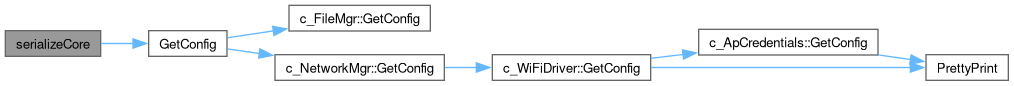
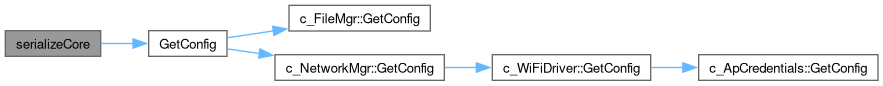
deploy: 2a3973c8abccfdb164db56483c07057c00bd3775

diff --git a/doxy/_ap_credentials_8hpp_source.html b/doxy/_ap_credentials_8hpp_source.html
@@ -156,13 +156,13 @@ $(function(){initNavTree('_ap_credentials_8hpp_source.html',''); initResizable(t
 <div class="ttc" id="aclassc___ap_credentials_html"><div class="ttname"><a href="classc___ap_credentials.html">c_ApCredentials</a></div><div class="ttdef"><b>Definition</b> ApCredentials.hpp:24</div></div>
 <div class="ttc" id="aclassc___ap_credentials_html_a00512543d08cafac4234370bd7bb0f0f"><div class="ttname"><a href="classc___ap_credentials.html#a00512543d08cafac4234370bd7bb0f0f">c_ApCredentials::GetConfig</a></div><div class="ttdeci">void GetConfig(JsonObject &amp;json)</div><div class="ttdef"><b>Definition</b> ApCredentials.cpp:45</div></div>
 <div class="ttc" id="aclassc___ap_credentials_html_a15b2ebf9089b39075b9a33fd64d3fb31"><div class="ttname"><a href="classc___ap_credentials.html#a15b2ebf9089b39075b9a33fd64d3fb31">c_ApCredentials::GetDriverName</a></div><div class="ttdeci">void GetDriverName(String &amp;Name)</div><div class="ttdef"><b>Definition</b> ApCredentials.hpp:40</div></div>
-<div class="ttc" id="aclassc___ap_credentials_html_a2914f4614baf70b26afb48eb4472d444"><div class="ttname"><a href="classc___ap_credentials.html#a2914f4614baf70b26afb48eb4472d444">c_ApCredentials::GetCurrentCredentials</a></div><div class="ttdeci">bool GetCurrentCredentials(ApCredentials &amp;OutValue)</div><div class="ttdef"><b>Definition</b> ApCredentials.cpp:124</div></div>
-<div class="ttc" id="aclassc___ap_credentials_html_a2d6f2ae523dc786fd43e3ed1bad90190"><div class="ttname"><a href="classc___ap_credentials.html#a2d6f2ae523dc786fd43e3ed1bad90190">c_ApCredentials::GetNextCredentials</a></div><div class="ttdeci">bool GetNextCredentials()</div><div class="ttdef"><b>Definition</b> ApCredentials.cpp:148</div></div>
+<div class="ttc" id="aclassc___ap_credentials_html_a2914f4614baf70b26afb48eb4472d444"><div class="ttname"><a href="classc___ap_credentials.html#a2914f4614baf70b26afb48eb4472d444">c_ApCredentials::GetCurrentCredentials</a></div><div class="ttdeci">bool GetCurrentCredentials(ApCredentials &amp;OutValue)</div><div class="ttdef"><b>Definition</b> ApCredentials.cpp:125</div></div>
+<div class="ttc" id="aclassc___ap_credentials_html_a2d6f2ae523dc786fd43e3ed1bad90190"><div class="ttname"><a href="classc___ap_credentials.html#a2d6f2ae523dc786fd43e3ed1bad90190">c_ApCredentials::GetNextCredentials</a></div><div class="ttdeci">bool GetNextCredentials()</div><div class="ttdef"><b>Definition</b> ApCredentials.cpp:149</div></div>
 <div class="ttc" id="aclassc___ap_credentials_html_a62ee6760f021b7a0d1a9940cade3c890"><div class="ttname"><a href="classc___ap_credentials.html#a62ee6760f021b7a0d1a9940cade3c890">c_ApCredentials::ApCredentialsIterator</a></div><div class="ttdeci">uint ApCredentialsIterator</div><div class="ttdef"><b>Definition</b> ApCredentials.hpp:45</div></div>
 <div class="ttc" id="aclassc___ap_credentials_html_a82c44b0bac878f994faaf0acbec7e6c2"><div class="ttname"><a href="classc___ap_credentials.html#a82c44b0bac878f994faaf0acbec7e6c2">c_ApCredentials::_ApCredentials</a></div><div class="ttdeci">ApCredentials _ApCredentials[MAX_NUM_CREDENTIALS]</div><div class="ttdef"><b>Definition</b> ApCredentials.hpp:44</div></div>
-<div class="ttc" id="aclassc___ap_credentials_html_a8ce43e55561489e4c8798c0e70376c0d"><div class="ttname"><a href="classc___ap_credentials.html#a8ce43e55561489e4c8798c0e70376c0d">c_ApCredentials::ResetCurrentCredentials</a></div><div class="ttdeci">void ResetCurrentCredentials()</div><div class="ttdef"><b>Definition</b> ApCredentials.cpp:160</div></div>
+<div class="ttc" id="aclassc___ap_credentials_html_a8ce43e55561489e4c8798c0e70376c0d"><div class="ttname"><a href="classc___ap_credentials.html#a8ce43e55561489e4c8798c0e70376c0d">c_ApCredentials::ResetCurrentCredentials</a></div><div class="ttdeci">void ResetCurrentCredentials()</div><div class="ttdef"><b>Definition</b> ApCredentials.cpp:161</div></div>
 <div class="ttc" id="aclassc___ap_credentials_html_aa325ce89dad21f90a4ff81c6c8c1ee07"><div class="ttname"><a href="classc___ap_credentials.html#aa325ce89dad21f90a4ff81c6c8c1ee07">c_ApCredentials::~c_ApCredentials</a></div><div class="ttdeci">virtual ~c_ApCredentials()</div><div class="ttdoc">&lt; deallocate any resources and put the output channels into a safe state</div><div class="ttdef"><b>Definition</b> ApCredentials.cpp:36</div></div>
-<div class="ttc" id="aclassc___ap_credentials_html_ae6b44fd090841dd48ae0527f1a1e8a76"><div class="ttname"><a href="classc___ap_credentials.html#ae6b44fd090841dd48ae0527f1a1e8a76">c_ApCredentials::SetConfig</a></div><div class="ttdeci">bool SetConfig(JsonObject &amp;json)</div><div class="ttdef"><b>Definition</b> ApCredentials.cpp:64</div></div>
+<div class="ttc" id="aclassc___ap_credentials_html_ae6b44fd090841dd48ae0527f1a1e8a76"><div class="ttname"><a href="classc___ap_credentials.html#ae6b44fd090841dd48ae0527f1a1e8a76">c_ApCredentials::SetConfig</a></div><div class="ttdeci">bool SetConfig(JsonObject &amp;json)</div><div class="ttdef"><b>Definition</b> ApCredentials.cpp:65</div></div>
 <div class="ttc" id="aclassc___ap_credentials_html_aef1234b6886a7f7605799a3407f0a6cd"><div class="ttname"><a href="classc___ap_credentials.html#aef1234b6886a7f7605799a3407f0a6cd">c_ApCredentials::c_ApCredentials</a></div><div class="ttdeci">c_ApCredentials()</div><div class="ttdoc">&lt; Start up the driver and put it into a safe mode</div><div class="ttdef"><b>Definition</b> ApCredentials.cpp:24</div></div>
 <div class="ttc" id="astructc___ap_credentials_1_1_ap_credentials_html"><div class="ttname"><a href="structc___ap_credentials_1_1_ap_credentials.html">c_ApCredentials::ApCredentials</a></div><div class="ttdef"><b>Definition</b> ApCredentials.hpp:33</div></div>
 <div class="ttc" id="astructc___ap_credentials_1_1_ap_credentials_html_a879f10f86729e37a9406c2294069b4d7"><div class="ttname"><a href="structc___ap_credentials_1_1_ap_credentials.html#a879f10f86729e37a9406c2294069b4d7">c_ApCredentials::ApCredentials::ssid</a></div><div class="ttdeci">char ssid[65]</div><div class="ttdef"><b>Definition</b> ApCredentials.hpp:34</div></div>

diff --git a/doxy/_e_s_pixel_stick_8h.html b/doxy/_e_s_pixel_stick_8h.html
@@ -1265,26 +1265,11 @@ Here is the caller graph for this function:</div>
 <div class="dyncontent">
 <div class="center"><img src="_e_s_pixel_stick_8h_a9ff9121bc3b70ed36279c307fdcde0ca_icgraph.png" border="0" usemap="#a_e_s_pixel_stick_8h_a9ff9121bc3b70ed36279c307fdcde0ca_icgraph" alt=""/></div>
 <map name="a_e_s_pixel_stick_8h_a9ff9121bc3b70ed36279c307fdcde0ca_icgraph" id="a_e_s_pixel_stick_8h_a9ff9121bc3b70ed36279c307fdcde0ca_icgraph">
-<area shape="rect" title=" " alt="" coords="1078,70,1161,96"/>
-<area shape="rect" href="classc___input_mgr.html#ae5f525a3c62f1d51057334394021717d" title=" " alt="" coords="838,5,1030,46"/>
-<area shape="poly" title=" " alt="" coords="1063,68,1001,49,1003,44,1065,63"/>
-<area shape="rect" href="classc___ap_credentials.html#a00512543d08cafac4234370bd7bb0f0f" title=" " alt="" coords="844,70,1024,96"/>
-<area shape="poly" title=" " alt="" coords="1063,86,1024,86,1024,80,1063,80"/>
-<area shape="rect" href="classc___wi_fi_driver.html#a8d4c6f220a507a0f6e93518fd4d19f96" title=" " alt="" coords="609,96,767,121"/>
-<area shape="poly" title=" " alt="" coords="1066,103,1031,111,961,118,891,120,767,117,768,112,891,115,961,113,1030,106,1065,98"/>
-<area shape="rect" href="classc___input_mgr.html#a3982db8dd97b38f17ec31c73e6b4940b" title=" " alt="" coords="586,13,790,38"/>
-<area shape="poly" title=" " alt="" coords="823,28,790,28,790,23,823,23"/>
-<area shape="poly" title=" " alt="" coords="830,96,768,103,767,98,829,91"/>
-<area shape="rect" href="classc___network_mgr.html#ad8806d0ad5a5b1d643e5dbbf94bfefa1" title=" " alt="" coords="368,96,538,121"/>
-<area shape="poly" title=" " alt="" coords="593,111,538,111,538,106,593,106"/>
-<area shape="rect" href="main_8cpp.html#a653ee970a35bc7e905130d21d21abc99" title=" " alt="" coords="242,96,320,121"/>
-<area shape="poly" title=" " alt="" coords="353,111,321,111,321,106,353,106"/>
-<area shape="rect" href="main_8cpp.html#aa67914e91e1b1ff65d68df7e673a5ca9" title=" " alt="" coords="103,70,190,96"/>
-<area shape="poly" title=" " alt="" coords="226,101,190,94,191,89,227,96"/>
-<area shape="rect" href="main_8cpp.html#a03b64a11fdb210669823536c42932fd0" title=" " alt="" coords="99,120,194,145"/>
-<area shape="poly" title=" " alt="" coords="227,121,195,126,194,121,226,115"/>
-<area shape="rect" href="main_8cpp.html#afe461d27b9c48d5921c00d521181f12f" title="Main Loop." alt="" coords="5,70,51,96"/>
-<area shape="poly" title=" " alt="" coords="87,86,51,86,51,80,87,80"/>
+<area shape="rect" title=" " alt="" coords="498,13,580,38"/>
+<area shape="rect" href="classc___input_mgr.html#ae5f525a3c62f1d51057334394021717d" title=" " alt="" coords="258,5,450,46"/>
+<area shape="poly" title=" " alt="" coords="482,28,451,28,451,23,482,23"/>
+<area shape="rect" href="classc___input_mgr.html#a3982db8dd97b38f17ec31c73e6b4940b" title=" " alt="" coords="5,13,210,38"/>
+<area shape="poly" title=" " alt="" coords="242,28,210,28,210,23,242,23"/>
 </map>
 </div>
 
@@ -1727,11 +1712,8 @@ Here is the call graph for this function:</div>
 <area shape="poly" title=" " alt="" coords="228,46,260,51,259,56,227,52"/>
 <area shape="rect" href="classc___wi_fi_driver.html#a8d4c6f220a507a0f6e93518fd4d19f96" title=" " alt="" coords="492,55,651,80"/>
 <area shape="poly" title=" " alt="" coords="445,65,476,65,476,70,445,70"/>
-<area shape="rect" href="classc___ap_credentials.html#a00512543d08cafac4234370bd7bb0f0f" title=" " alt="" coords="699,29,878,55"/>
-<area shape="poly" title=" " alt="" coords="650,56,683,52,684,57,651,61"/>
-<area shape="rect" href="_web_mgr_8cpp.html#a9ff9121bc3b70ed36279c307fdcde0ca" title=" " alt="" coords="926,55,1008,80"/>
-<area shape="poly" title=" " alt="" coords="651,65,910,65,910,70,651,70"/>
-<area shape="poly" title=" " alt="" coords="879,52,911,57,910,62,878,58"/>
+<area shape="rect" href="classc___ap_credentials.html#a00512543d08cafac4234370bd7bb0f0f" title=" " alt="" coords="699,55,878,80"/>
+<area shape="poly" title=" " alt="" coords="651,65,683,65,683,70,651,70"/>
 </map>
 </div>
 

diff --git a/doxy/main_8cpp.html b/doxy/main_8cpp.html
@@ -1102,11 +1102,8 @@ Here is the call graph for this function:</div>
 <area shape="poly" title=" " alt="" coords="85,46,117,51,116,56,84,52"/>
 <area shape="rect" href="classc___wi_fi_driver.html#a8d4c6f220a507a0f6e93518fd4d19f96" title=" " alt="" coords="349,55,507,80"/>
 <area shape="poly" title=" " alt="" coords="302,65,333,65,333,70,302,70"/>
-<area shape="rect" href="classc___ap_credentials.html#a00512543d08cafac4234370bd7bb0f0f" title=" " alt="" coords="555,29,735,55"/>
-<area shape="poly" title=" " alt="" coords="507,56,540,52,540,57,508,61"/>
-<area shape="rect" href="_web_mgr_8cpp.html#a9ff9121bc3b70ed36279c307fdcde0ca" title=" " alt="" coords="783,55,865,80"/>
-<area shape="poly" title=" " alt="" coords="508,65,767,65,767,70,508,70"/>
-<area shape="poly" title=" " alt="" coords="735,52,768,57,767,62,735,58"/>
+<area shape="rect" href="classc___ap_credentials.html#a00512543d08cafac4234370bd7bb0f0f" title=" " alt="" coords="555,55,735,80"/>
+<area shape="poly" title=" " alt="" coords="507,65,540,65,540,70,507,70"/>
 </map>
 </div>
 <div class="dynheader">
@@ -1663,11 +1660,8 @@ Here is the call graph for this function:</div>
 <area shape="poly" title=" " alt="" coords="264,44,341,53,340,58,264,49"/>
 <area shape="rect" href="classc___wi_fi_driver.html#a8d4c6f220a507a0f6e93518fd4d19f96" title=" " alt="" coords="573,55,732,80"/>
 <area shape="poly" title=" " alt="" coords="526,65,557,65,557,70,526,70"/>
-<area shape="rect" href="classc___ap_credentials.html#a00512543d08cafac4234370bd7bb0f0f" title=" " alt="" coords="780,29,959,55"/>
-<area shape="poly" title=" " alt="" coords="731,56,764,52,765,57,732,61"/>
-<area shape="rect" href="_web_mgr_8cpp.html#a9ff9121bc3b70ed36279c307fdcde0ca" title=" " alt="" coords="1007,55,1089,80"/>
-<area shape="poly" title=" " alt="" coords="732,65,991,65,991,70,732,70"/>
-<area shape="poly" title=" " alt="" coords="960,52,992,57,991,62,959,58"/>
+<area shape="rect" href="classc___ap_credentials.html#a00512543d08cafac4234370bd7bb0f0f" title=" " alt="" coords="780,55,959,80"/>
+<area shape="poly" title=" " alt="" coords="732,65,764,65,764,70,732,70"/>
 <area shape="poly" title=" " alt="" coords="195,104,189,94,192,84,205,78,224,76,246,79,257,85,254,90,244,84,224,81,206,83,196,88,194,93,199,101"/>
 </map>
 </div>
@@ -1819,11 +1813,8 @@ Here is the call graph for this function:</div>
 <area shape="poly" title=" " alt="" coords="228,46,260,51,259,56,227,52"/>
 <area shape="rect" href="classc___wi_fi_driver.html#a8d4c6f220a507a0f6e93518fd4d19f96" title=" " alt="" coords="492,55,651,80"/>
 <area shape="poly" title=" " alt="" coords="445,65,476,65,476,70,445,70"/>
-<area shape="rect" href="classc___ap_credentials.html#a00512543d08cafac4234370bd7bb0f0f" title=" " alt="" coords="699,29,878,55"/>
-<area shape="poly" title=" " alt="" coords="650,56,683,52,684,57,651,61"/>
-<area shape="rect" href="_web_mgr_8cpp.html#a9ff9121bc3b70ed36279c307fdcde0ca" title=" " alt="" coords="926,55,1008,80"/>
-<area shape="poly" title=" " alt="" coords="651,65,910,65,910,70,651,70"/>
-<area shape="poly" title=" " alt="" coords="879,52,911,57,910,62,878,58"/>
+<area shape="rect" href="classc___ap_credentials.html#a00512543d08cafac4234370bd7bb0f0f" title=" " alt="" coords="699,55,878,80"/>
+<area shape="poly" title=" " alt="" coords="651,65,683,65,683,70,651,70"/>
 </map>
 </div>
 

diff --git a/doxy/_web_mgr_8cpp.html b/doxy/_web_mgr_8cpp.html
@@ -318,26 +318,11 @@ Here is the caller graph for this function:</div>
 <div class="dyncontent">
 <div class="center"><img src="_web_mgr_8cpp_a9ff9121bc3b70ed36279c307fdcde0ca_icgraph.png" border="0" usemap="#a_web_mgr_8cpp_a9ff9121bc3b70ed36279c307fdcde0ca_icgraph" alt=""/></div>
 <map name="a_web_mgr_8cpp_a9ff9121bc3b70ed36279c307fdcde0ca_icgraph" id="a_web_mgr_8cpp_a9ff9121bc3b70ed36279c307fdcde0ca_icgraph">
-<area shape="rect" title=" " alt="" coords="1078,70,1161,96"/>
-<area shape="rect" href="classc___input_mgr.html#ae5f525a3c62f1d51057334394021717d" title=" " alt="" coords="838,5,1030,46"/>
-<area shape="poly" title=" " alt="" coords="1063,68,1001,49,1003,44,1065,63"/>
-<area shape="rect" href="classc___ap_credentials.html#a00512543d08cafac4234370bd7bb0f0f" title=" " alt="" coords="844,70,1024,96"/>
-<area shape="poly" title=" " alt="" coords="1063,86,1024,86,1024,80,1063,80"/>
-<area shape="rect" href="classc___wi_fi_driver.html#a8d4c6f220a507a0f6e93518fd4d19f96" title=" " alt="" coords="609,96,767,121"/>
-<area shape="poly" title=" " alt="" coords="1066,103,1031,111,961,118,891,120,767,117,768,112,891,115,961,113,1030,106,1065,98"/>
-<area shape="rect" href="classc___input_mgr.html#a3982db8dd97b38f17ec31c73e6b4940b" title=" " alt="" coords="586,13,790,38"/>
-<area shape="poly" title=" " alt="" coords="823,28,790,28,790,23,823,23"/>
-<area shape="poly" title=" " alt="" coords="830,96,768,103,767,98,829,91"/>
-<area shape="rect" href="classc___network_mgr.html#ad8806d0ad5a5b1d643e5dbbf94bfefa1" title=" " alt="" coords="368,96,538,121"/>
-<area shape="poly" title=" " alt="" coords="593,111,538,111,538,106,593,106"/>
-<area shape="rect" href="main_8cpp.html#a653ee970a35bc7e905130d21d21abc99" title=" " alt="" coords="242,96,320,121"/>
-<area shape="poly" title=" " alt="" coords="353,111,321,111,321,106,353,106"/>
-<area shape="rect" href="main_8cpp.html#aa67914e91e1b1ff65d68df7e673a5ca9" title=" " alt="" coords="103,70,190,96"/>
-<area shape="poly" title=" " alt="" coords="226,101,190,94,191,89,227,96"/>
-<area shape="rect" href="main_8cpp.html#a03b64a11fdb210669823536c42932fd0" title=" " alt="" coords="99,120,194,145"/>
-<area shape="poly" title=" " alt="" coords="227,121,195,126,194,121,226,115"/>
-<area shape="rect" href="main_8cpp.html#afe461d27b9c48d5921c00d521181f12f" title="Main Loop." alt="" coords="5,70,51,96"/>
-<area shape="poly" title=" " alt="" coords="87,86,51,86,51,80,87,80"/>
+<area shape="rect" title=" " alt="" coords="498,13,580,38"/>
+<area shape="rect" href="classc___input_mgr.html#ae5f525a3c62f1d51057334394021717d" title=" " alt="" coords="258,5,450,46"/>
+<area shape="poly" title=" " alt="" coords="482,28,451,28,451,23,482,23"/>
+<area shape="rect" href="classc___input_mgr.html#a3982db8dd97b38f17ec31c73e6b4940b" title=" " alt="" coords="5,13,210,38"/>
+<area shape="poly" title=" " alt="" coords="242,28,210,28,210,23,242,23"/>
 </map>
 </div>
 

diff --git a/doxy/classc___network_mgr.html b/doxy/classc___network_mgr.html
@@ -588,14 +588,11 @@ Here is the call graph for this function:</div>
 <div class="dyncontent">
 <div class="center"><img src="classc___network_mgr_ad8806d0ad5a5b1d643e5dbbf94bfefa1_cgraph.png" border="0" usemap="#aclassc___network_mgr_ad8806d0ad5a5b1d643e5dbbf94bfefa1_cgraph" alt=""/></div>
 <map name="aclassc___network_mgr_ad8806d0ad5a5b1d643e5dbbf94bfefa1_cgraph" id="aclassc___network_mgr_ad8806d0ad5a5b1d643e5dbbf94bfefa1_cgraph">
-<area shape="rect" title=" " alt="" coords="5,31,175,56"/>
-<area shape="rect" href="classc___wi_fi_driver.html#a8d4c6f220a507a0f6e93518fd4d19f96" title=" " alt="" coords="223,31,381,56"/>
-<area shape="poly" title=" " alt="" coords="175,41,207,41,207,46,175,46"/>
+<area shape="rect" title=" " alt="" coords="5,5,175,31"/>
+<area shape="rect" href="classc___wi_fi_driver.html#a8d4c6f220a507a0f6e93518fd4d19f96" title=" " alt="" coords="223,5,381,31"/>
+<area shape="poly" title=" " alt="" coords="175,16,207,16,207,21,175,21"/>
 <area shape="rect" href="classc___ap_credentials.html#a00512543d08cafac4234370bd7bb0f0f" title=" " alt="" coords="429,5,608,31"/>
-<area shape="poly" title=" " alt="" coords="381,32,413,28,414,33,381,37"/>
-<area shape="rect" href="_web_mgr_8cpp.html#a9ff9121bc3b70ed36279c307fdcde0ca" title=" " alt="" coords="656,31,739,56"/>
-<area shape="poly" title=" " alt="" coords="381,41,641,41,641,46,381,46"/>
-<area shape="poly" title=" " alt="" coords="609,28,641,33,641,38,608,34"/>
+<area shape="poly" title=" " alt="" coords="381,16,413,16,413,21,381,21"/>
 </map>
 </div>
 <div class="dynheader">

diff --git a/doxy/classc___wi_fi_driver.html b/doxy/classc___wi_fi_driver.html
@@ -985,12 +985,9 @@ Here is the call graph for this function:</div>
 <div class="dyncontent">
 <div class="center"><img src="classc___wi_fi_driver_a8d4c6f220a507a0f6e93518fd4d19f96_cgraph.png" border="0" usemap="#aclassc___wi_fi_driver_a8d4c6f220a507a0f6e93518fd4d19f96_cgraph" alt=""/></div>
 <map name="aclassc___wi_fi_driver_a8d4c6f220a507a0f6e93518fd4d19f96_cgraph" id="aclassc___wi_fi_driver_a8d4c6f220a507a0f6e93518fd4d19f96_cgraph">
-<area shape="rect" title=" " alt="" coords="5,31,164,56"/>
+<area shape="rect" title=" " alt="" coords="5,5,164,31"/>
 <area shape="rect" href="classc___ap_credentials.html#a00512543d08cafac4234370bd7bb0f0f" title=" " alt="" coords="212,5,391,31"/>
-<area shape="poly" title=" " alt="" coords="163,32,196,28,197,33,164,37"/>
-<area shape="rect" href="_web_mgr_8cpp.html#a9ff9121bc3b70ed36279c307fdcde0ca" title=" " alt="" coords="439,31,521,56"/>
-<area shape="poly" title=" " alt="" coords="164,41,423,41,423,46,164,46"/>
-<area shape="poly" title=" " alt="" coords="392,28,424,33,423,38,391,34"/>
+<area shape="poly" title=" " alt="" coords="164,16,196,16,196,21,164,21"/>
 </map>
 </div>
 <div class="dynheader">

diff --git a/doxy/classc___ap_credentials.html b/doxy/classc___ap_credentials.html
@@ -224,16 +224,6 @@ Here is the call graph for this function:</div>
       </table>
 </div><div class="memdoc">
 <div class="dynheader">
-Here is the call graph for this function:</div>
-<div class="dyncontent">
-<div class="center"><img src="classc___ap_credentials_a00512543d08cafac4234370bd7bb0f0f_cgraph.png" border="0" usemap="#aclassc___ap_credentials_a00512543d08cafac4234370bd7bb0f0f_cgraph" alt=""/></div>
-<map name="aclassc___ap_credentials_a00512543d08cafac4234370bd7bb0f0f_cgraph" id="aclassc___ap_credentials_a00512543d08cafac4234370bd7bb0f0f_cgraph">
-<area shape="rect" title=" " alt="" coords="5,5,185,31"/>
-<area shape="rect" href="_web_mgr_8cpp.html#a9ff9121bc3b70ed36279c307fdcde0ca" title=" " alt="" coords="233,5,315,31"/>
-<area shape="poly" title=" " alt="" coords="185,16,217,16,217,21,185,21"/>
-</map>
-</div>
-<div class="dynheader">
 Here is the caller graph for this function:</div>
 <div class="dyncontent">
 <div class="center"><img src="classc___ap_credentials_a00512543d08cafac4234370bd7bb0f0f_icgraph.png" border="0" usemap="#aclassc___ap_credentials_a00512543d08cafac4234370bd7bb0f0f_icgraph" alt=""/></div>
